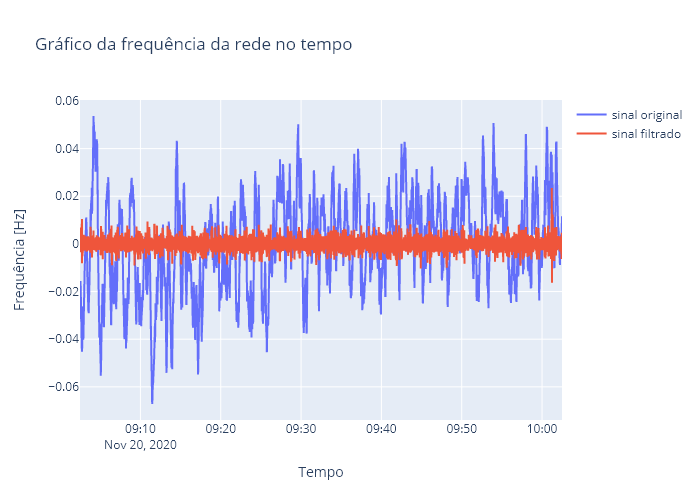
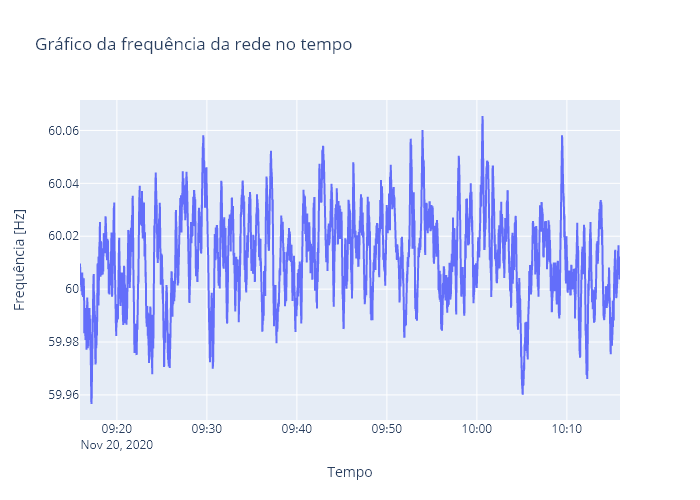
Fix frequency graph

diff --git a/main.py b/main.py
@@ -49,7 +49,7 @@ while True:
     time_values = [np.datetime64(int(i - (3 * 3600000)), 'ms') for i in unix_time_values]
 
     # Creates dataframe for variables
-    df = pd.DataFrame({"freq": frequency_values, "date": time_values})
+    df = pd.DataFrame({"freq": frequency_values, "date": time_values, "original_freq": frequency_values})
 
     # -----------------------------------
     # Treatment of missing data
@@ -117,13 +117,12 @@ while True:
     # Plotting
     # -----------------------------------
     fig = go.Figure()
-    fig.add_trace(go.Scatter(x=time_values, y=df["freq"], mode='lines', name='sinal original'))
-    fig.add_trace(go.Scatter(x=time_values, y=df["freq_filter"], mode='lines', name='sinal filtrado'))
+    fig.add_trace(go.Scatter(x=time_values, y=df["original_freq"], mode='lines'))
     fig.update_layout(title="Gráfico da frequência da rede no tempo", xaxis_title="Tempo", yaxis_title="Frequência [Hz]")
     fig.write_image("img_frequencia.png")
     
     fig = go.Figure()
-    fig.add_trace(go.Scatter(x=fft_freq, y=fft_module, mode='markers'))
+    fig.add_trace(go.Scatter(x=fft_freq, y=fft_module, mode='lines+markers'))
     fig.update_layout(title="Transformada de Welch", xaxis_title="Frequência [Hz]", yaxis_title="Módulo")
     fig.write_image("img_welch.png")
 
